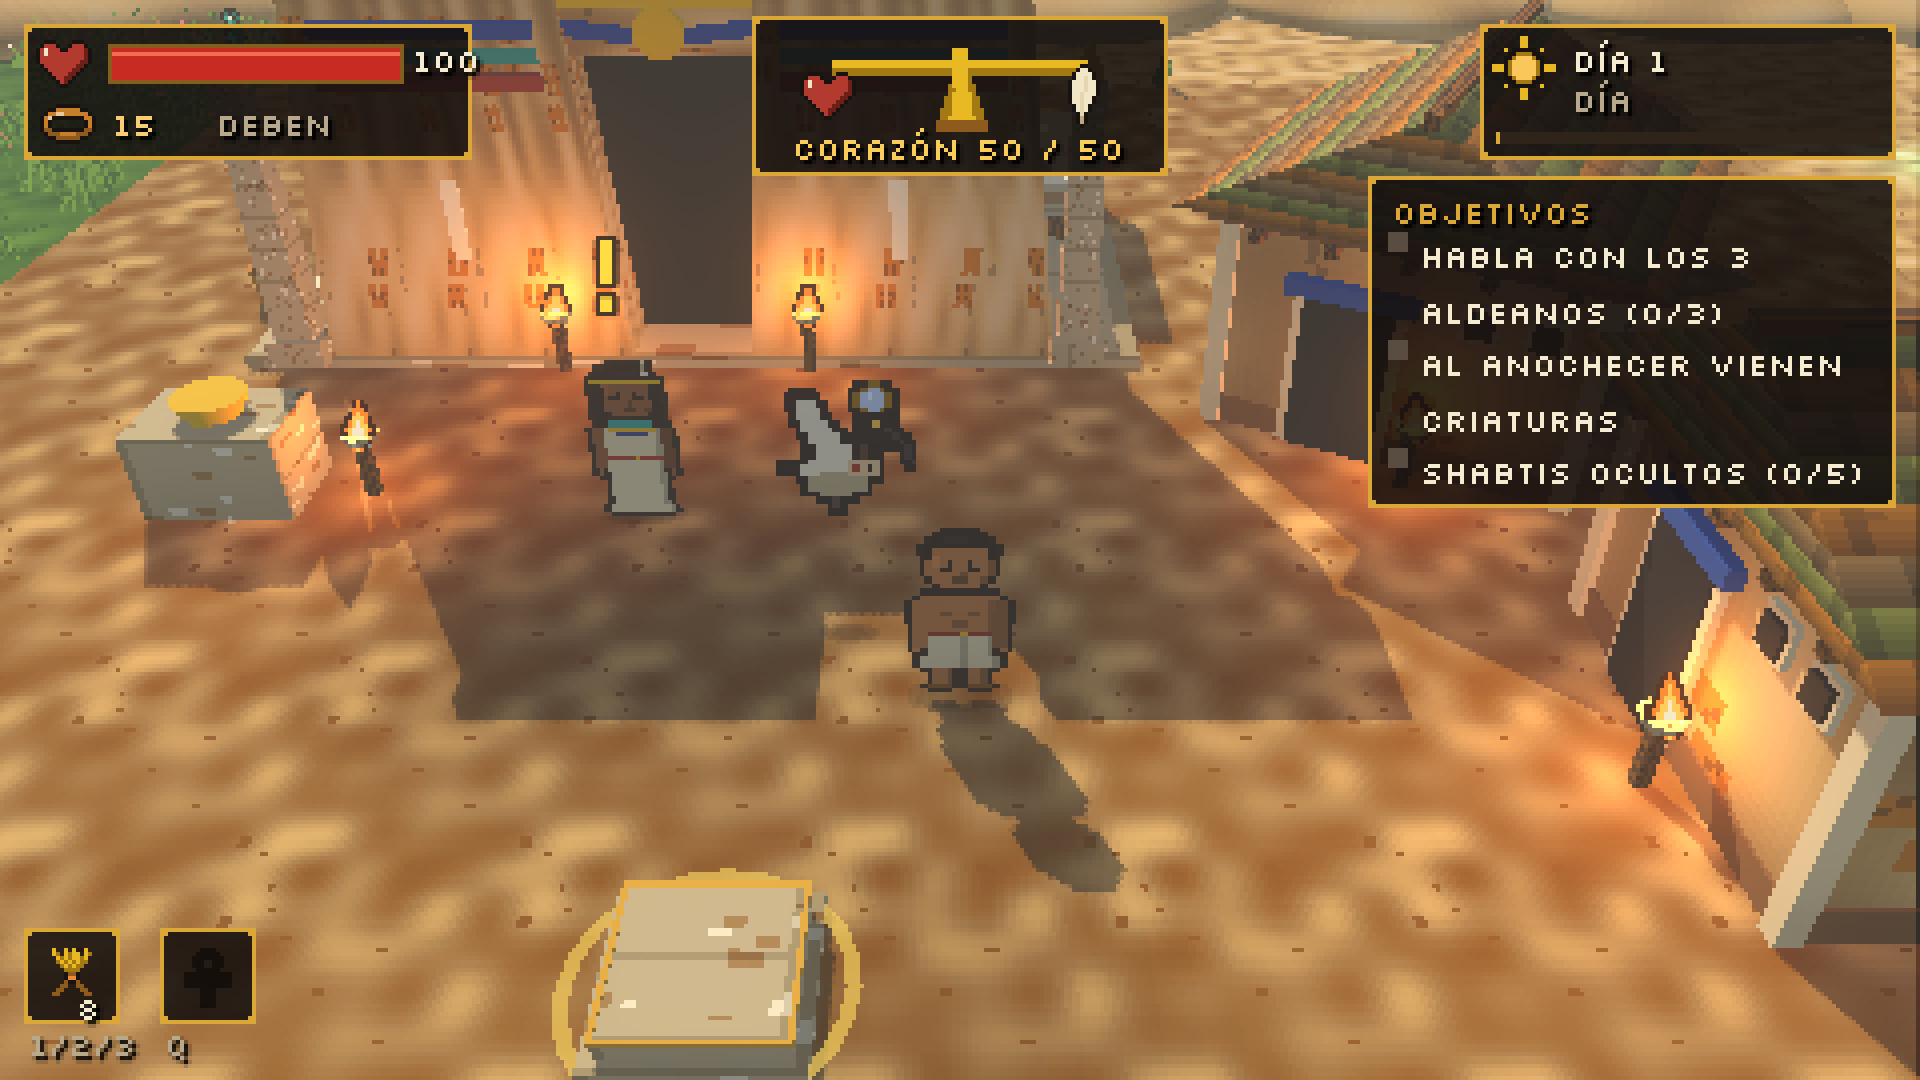
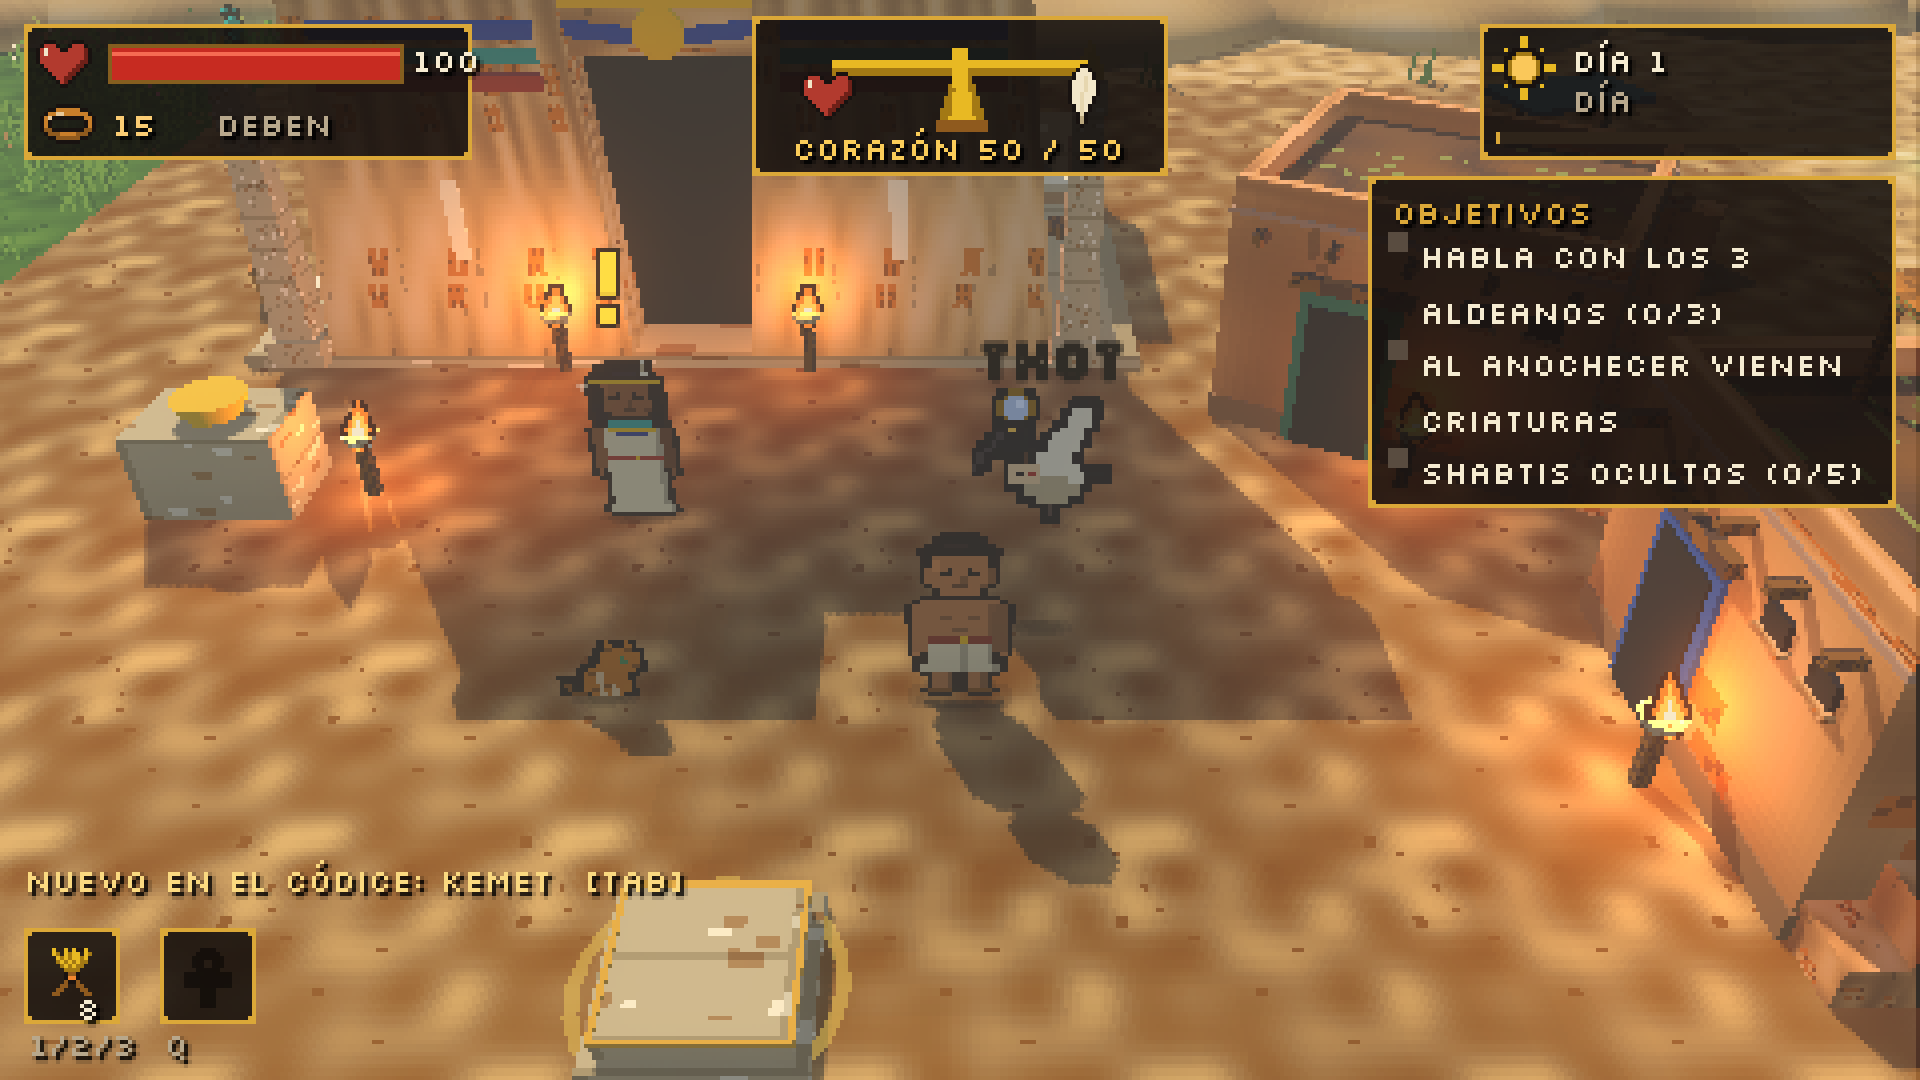
Capturas finales y documentación de la tercera ronda
Claude-Session: https://claude.ai/code/session_01B7s5QCJ8fJeBPJKJxqr4xN

diff --git a/PROGRESS.md b/PROGRESS.md
@@ -1,6 +1,6 @@
 # PROGRESS — Scales of Anubis (demo)
 
-_Última actualización: sesión en la nube (Linux), 2026-09-27._
+_Última actualización: sesión en la nube (Linux), 2026-09-27 (ronda 3)._
 
 ## Léeme primero
 La demo está **completa de principio a fin**: intro en el Duat → 3 días y 3
@@ -9,10 +9,31 @@ gracias. Todo lo que pedían `CLAUDE_NUBE.md` y `PROMPT_PULIDO.md` está hecho,
 y también la lista extra de `CLAUDE.md` (combate, claridad, mapa,
 cayado/bastón, muro de adobe, mando y guardado).
 
-**Mira primero la carpeta [`capturas_finales/`](capturas_finales/)** (23
+**Mira primero la carpeta [`capturas_finales/`](capturas_finales/)** (31
 capturas a 1920×1080, se ven bien desde el celular en GitHub).
 
 Cada decisión que tomé sin poder preguntarte está en `DECISIONES.md`.
+
+## Ronda 3 (lo último que reportaste)
+Detalle en `DECISIONES.md` → "Tercera ronda":
+- **Congelado en la noche 2**: redes de seguridad contra pausas huérfanas y
+  un desatascador si te quedas pegado; prueba automática nueva.
+- **Sacudidas "desde la aldea"**: eran las defensas matando criaturas
+  lejos; ya no sacuden. Golpes y martillo más suaves.
+- **Enemigos y Heraldo trabados**: ahora usan navmesh y rodean casas y
+  tumbas. El Heraldo pega un poco menos.
+- **Thot**: habla mucho menos y con calma, se ve su nombre, abre el pico al
+  hablar y tiene un porqué: Anubis lo manda a anotar todo lo que hagas
+  para el pesaje final. Al amanecer ves "Thot anotó:" con tus actos.
+- **Defensas con progreso**: explicación antes de comprar, 3 niveles por
+  tipo, lo futuro aparece como "???" hasta su día, y puedes mejorar o
+  cambiar una defensa ya construida (te devuelven la mitad).
+- **Cada noche más difícil**: criaturas con más vida, daño y velocidad.
+- **Cultivos**: crecen poco a poco después de regar, no de golpe.
+- **Casas y pirámide**: techo plano egipcio, variaciones por casa;
+  pirámide escalonada con bloques y sombreado por cara.
+- **Mundo vivo**: aldeanos que pasean y te miran, gatos, gansos del Nilo,
+  humo de fogones, y los edificios se vuelven translúcidos si te tapan.
 
 ## Ronda 2 (después de que la probaste)
 Arreglé todo lo que reportaste. Detalle en `DECISIONES.md` → "Segunda ronda":
@@ -31,8 +52,15 @@ Arreglé todo lo que reportaste. Detalle en `DECISIONES.md` → "Segunda ronda":
 - **Intro animada**: tarjetas con paralaje, balanza que oscila de verdad,
   sello de "¡EMPATE!", Anubis que respira, Thot que llega volando.
 
-Para traer los cambios: en `C:\Users\Aslan\Projects\ScalesOfAnubis`,
-`git pull` (ya estás en la rama `claude/claude-nube-md-jquijs`).
+Para traer los cambios, en Git Bash:
+```
+cd ~/Projects/ScalesOfAnubis
+git checkout -- "*.import"
+git pull
+```
+(la segunda línea descarta los `.import` que Godot reescribe solo al
+abrir el proyecto; si no hay, no hace nada). Te recomiendo **Nueva partida** para ver
+todo desde el principio (el guardado viejo también carga).
 
 ## Cómo jugar
 1. Abre el proyecto con **Godot 4.7.2** y exporta el `.exe` con el preset
@@ -75,10 +103,12 @@ Semillas de día: **1 trigo** (1 día), **2 lino** (2 días), **3 papiro**
   el borde de la pantalla indican de dónde vienen.
 - **Amanecer**: resumen (criaturas vencidas, cultivos perdidos, cambio en
   la balanza). Autoguardado.
-- **Día 2**: cosecha y vende. Construye defensas en los **pedestales**
-  junto al campo: estatua de chacal (dispara), brasero sagrado (quema en
-  área) o muro de adobe (bloquea). **Decisión 1**: el altar del templo
-  no tiene vigilancia.
+- **Defensas** (pedestales junto al campo y la aldea, E de día): el día 1
+  hay muro de adobe (bloquea) y brasero (quema en área); el día 2 se revela
+  la estatua de chacal (dispara) y los niveles 2; el día 3 los niveles 3.
+  E sobre una defensa construida para mejorarla o cambiarla.
+- **Día 2**: cosecha y vende; mejora tus defensas. **Decisión 1**: el
+  altar del templo no tiene vigilancia.
 - **Noche 2 — Decisión 2**: sombras van a saquear la aldea mientras crías
   atacan tus cultivos. No hay menú: la decisión es adónde vas. Meret
   reacciona al día siguiente.
@@ -136,6 +166,9 @@ bordón) para título, día, noche y jefe; ambientes de día y de noche.
     y final.
   - `tools/tests/test_story.tscn` — intro y final hasta "gracias".
   - `tools/tests/test_save.tscn` — guardar y continuar.
+  - `tools/tests/test_robustez.tscn` — pausas huérfanas, desatascar al
+    jugador, criaturas que rodean el templo.
+  - `tools/tests/test_audio.tscn` — la música suena y hace loop.
   - Correr: `godot --headless --path . res://tools/tests/test_demo.tscn`
     o, con un build exportado: `juego.exe -- --autotest=demo`.
 
@@ -149,8 +182,8 @@ bordón) para título, día, noche y jefe; ambientes de día y de noche.
   mismo.
 - El sprite de ataque muestra el khopesh con las tres armas (el arco o el
   proyectil sí cambian según el arma).
-- Los enemigos persiguen en línea recta (sin navmesh): con los muros de
-  adobe se deslizan por el costado, no los rodean de forma inteligente.
+- El congelamiento de la noche 2 no lo pude reproducir; quedó cubierto con
+  redes de seguridad, pero si vuelve a pasar dime qué estabas haciendo.
 - El guardado es al empezar cada día: si sales a mitad del día, retomas
   desde su comienzo.
 
@@ -160,9 +193,8 @@ bordón) para título, día, noche y jefe; ambientes de día y de noche.
    `data/crops.json` y `scripts/world/defense_spot.gd`, duración del día en
    `scripts/autoload/game_time.gd`).
 2. Escuchar la música y los efectos y retocar lo que no guste.
-3. Navegación con navmesh para que las criaturas rodeen muros y casas.
-4. Sprites de ataque distintos para martillo y bastón.
-5. Traducción al inglés: los textos ya están centralizados en
+3. Sprites de ataque distintos para martillo y bastón.
+4. Traducción al inglés: los textos ya están centralizados en
    `data/textos_es.json`, `data/dialogues.json` y `data/codex.json`.
 
 ## Estructura

diff --git a/DECISIONES.md b/DECISIONES.md
@@ -362,3 +362,55 @@ recomendados, con la base técnica ya lista para construirlos encima.
 - **Casas y pirámides "de cartón"**: esquinas y cornisas marcadas, techo de
   palma a dos aguas o de barro más oscuro que el muro; pirámides con
   hiladas de bloques y un tono por cara.
+
+## Tercera ronda: feedback de Deivid (noche 2, Thot, defensas, mundo vivo)
+- **Congelado en la noche 2 junto a la aldea**: no logré reproducir la
+  causa exacta, así que puse dos redes de seguridad: un vigilante en
+  `GameState` que quita la pausa si el juego queda pausado sin ningún menú
+  visible (o el tiempo queda frenado por un hit-stop) y un "desatascador"
+  que, si mantienes una dirección y no te mueves, te lleva al hueco libre
+  más cercano. Los fundidos a negro ahora avanzan aunque el juego esté en
+  pausa (antes un fundido podía quedarse a medias). Prueba:
+  `tools/tests/test_robustez.tscn`.
+- **Sacudidas extremas "desde la aldea" sin perder vida**: eran las muertes
+  de criaturas a manos de las defensas lejanas, que sacudían la cámara.
+  Ahora solo sacude si la muerte ocurre a menos de 4 m, y todas las
+  sacudidas van a la mitad con tope. Golpes y martillo más suaves.
+- **Enemigos y Heraldo trabados entre casas y tumbas**: navegación con
+  navmesh horneada en tiempo de ejecución (`NavigationRegion3D` a partir de
+  los colisionadores estáticos). Se vuelve a hornear al construir un muro.
+  El Heraldo, si igual se traba, atraviesa el obstáculo. Su embestida baja
+  de 22 a 18 y el golpe de área de 18 a 14.
+- **Thot**: habla menos (cola con 9 s de silencio entre comentarios, solo
+  los 2 más recientes esperan), su nombre sale en el cuadro y sobre su
+  cabeza, abre el pico al hablar. **Trasfondo**: Anubis le ordena en la
+  intro acompañarte como escriba y anotar cada acto para el pesaje final;
+  al amanecer el resumen trae "Thot anotó:" con lo que movió tu corazón.
+  El códice ya no comenta cada entrada nueva.
+- **Defensas con progreso**: `data/defenses.json`. Tres tipos con 3 niveles:
+  el día 1 solo hay muro y brasero básicos; la estatua de chacal y los
+  niveles 2 se revelan el día 2 y los niveles 3 ("super OP": estatua de dos
+  rayos, fuego de Ra azul que frena, muro de piedra con espinas de bronce)
+  el día 3. Lo bloqueado se ve como "??? · se revela el día N". Cada opción
+  del menú muestra su descripción antes de comprar. Sobre una defensa ya
+  construida puedes mejorarla o cambiarla por otro tipo (te devuelven la
+  mitad de lo invertido). Gemas azules en el pedestal muestran el nivel.
+- **Dificultad incremental**: cada noche las criaturas comunes tienen +35 %
+  de vida, +15 % de daño, +6 % de velocidad y dan una moneda más. El cartel
+  de la noche lo avisa. El jefe tiene sus propios números.
+- **Cultivos que cambiaban de golpe**: tras regar, la planta pasa por las
+  etapas y se estira poco a poco hasta el amanecer, con un "brote"
+  (estirón y hojitas) al cambiar de etapa. Madura (y se puede cosechar)
+  al amanecer, como antes.
+- **Casas y pirámide raras**: fuera el techo de paja a dos aguas (no era
+  egipcio y desde arriba se veía raro) y la cornisa ancha. Ahora techo
+  plano con parapeto bajo, revoque de distinto tono por casa, puerta con
+  marco pintado, escalera exterior y, según la casa, un cuarto alto o un
+  toldo de palma. Pirámide escalonada y mastabas con bloques del mismo
+  tamaño en todas las caras, un tono por cara, remate y arena al pie.
+- **Mundo vivo**: aldeanos que pasean alrededor de su lugar y se voltean a
+  mirarte; gatos (mau egipcio) que pasean y se apartan si corres; gansos
+  del Nilo en la orilla que picotean y huyen; humo de fogones de día; las
+  casas, el templo y las tumbas se vuelven translúcidas cuando te tapan.
+  Animales configurables en `data/map_layout.json` → `animales`; sprites
+  en `tools/gen_animals.py`.
